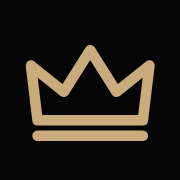
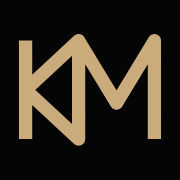
Replace crown with KM monogram (concept A1) on the prayer page
Updates the menu and footer wordmark, browser-tab icons, and share image.

Claude-Session: https://claude.ai/code/session_014K89563gWLszdZvadxZsab

Changed region(s): [[0.0833, 0.1667, 0.9167, 0.8333]]

diff --git a/prayer/index.html b/prayer/index.html
@@ -41,7 +41,7 @@
 <!-- ============================ NAV ============================ -->
 <nav class="nav" id="nav">
   <a href="#top" class="nav-logo km-nav-logo" aria-label="Kingdom Minded Prayer Call">
-    <span class="km-mark"><svg class="km-crown" viewBox="0 0 32 24" fill="none" stroke-width="1.4" stroke-linecap="round" stroke-linejoin="round" aria-hidden="true"><path d="M4 19 2.5 6.5l7.5 6L16 3l6 9.5 7.5-6L28 19z"></path><path d="M4 22.5h24"></path></svg><span class="km-words"><span class="km-name">Kingdom Minded</span><span class="km-sub">Prayer Call</span></span></span>
+    <span class="km-mark"><svg class="km-icon" viewBox="12 20 76 60" fill="none" stroke-width="4.4" stroke-linecap="butt" stroke-linejoin="round" aria-hidden="true"><path d="M16 24V76M16 50L44 24V76ZM44 24L64 57L84 24V76"></path></svg><span class="km-words"><span class="km-name">Kingdom Minded</span><span class="km-sub">Prayer Call</span></span></span>
   </a>
   <div class="nav-links">
     <a href="#invitation">The Invitation</a>
@@ -449,7 +449,7 @@
   <div class="container">
     <div class="footer-top">
       <div class="footer-brand">
-        <span class="km-mark km-mark-lg"><svg class="km-crown" viewBox="0 0 32 24" fill="none" stroke-width="1.4" stroke-linecap="round" stroke-linejoin="round" aria-hidden="true"><path d="M4 19 2.5 6.5l7.5 6L16 3l6 9.5 7.5-6L28 19z"></path><path d="M4 22.5h24"></path></svg><span class="km-words"><span class="km-name">Kingdom Minded</span><span class="km-sub">Prayer Call</span></span></span>
+        <span class="km-mark km-mark-lg"><svg class="km-icon" viewBox="12 20 76 60" fill="none" stroke-width="4.4" stroke-linecap="butt" stroke-linejoin="round" aria-hidden="true"><path d="M16 24V76M16 50L44 24V76ZM44 24L64 57L84 24V76"></path></svg><span class="km-words"><span class="km-name">Kingdom Minded</span><span class="km-sub">Prayer Call</span></span></span>
         <p class="footer-tag">Kingdom-minded professionals in real estate and mortgage, praying together every Monday.</p>
         <div class="footer-host">
           <span>Hosted by</span>

diff --git a/assets/css/prayer.css b/assets/css/prayer.css
@@ -401,7 +401,6 @@
    Kingdom Minded Prayer Call wordmark (replaces the Revival logo up top)
    ============================================================ */
 .km-mark { display: inline-flex; align-items: center; gap: 14px; color: var(--white); }
-.km-crown { width: 34px; height: 26px; stroke: var(--gold); flex-shrink: 0; }
 .km-words { display: flex; flex-direction: column; line-height: 1; }
 .km-name {
   font-family: var(--font-head); font-weight: 500;
@@ -416,12 +415,10 @@
 .km-sub::after { content: ''; width: 22px; height: 1px; background: var(--gold-dim); }
 .km-nav-logo { padding: 22px 0; }
 .nav.scrolled .km-nav-logo { padding: 10px 0; }
-.km-mark-lg .km-crown { width: 42px; height: 32px; }
 .km-mark-lg .km-name { font-size: 18px; }
 .km-mark-lg .km-sub { font-size: 11px; }
 @media (max-width: 880px) {
   .km-nav-logo { padding: 8px 0; }
-  .km-crown { width: 28px; height: 22px; }
   .km-name { font-size: 12.5px; letter-spacing: 0.18em; }
   .km-sub { font-size: 9px; letter-spacing: 0.36em; margin-top: 6px; }
   .km-sub::after { display: none; }
@@ -450,7 +447,7 @@
 }
 @media (max-width: 480px) { .prayer-page .nav-right { display: none; } }
 
-/* Crown sized to the full height of the two-line wordmark */
-.km-crown { width: 46px; height: 35px; }
-.km-mark-lg .km-crown { width: 56px; height: 43px; }
-@media (max-width: 880px) { .km-crown { width: 38px; height: 29px; } }
+/* KM monogram (concept A1), sized to the full height of the two-line wordmark */
+.km-icon { width: 44px; height: 35px; stroke: var(--gold); flex-shrink: 0; }
+.km-mark-lg .km-icon { width: 54px; height: 43px; }
+@media (max-width: 880px) { .km-icon { width: 36px; height: 29px; } }
